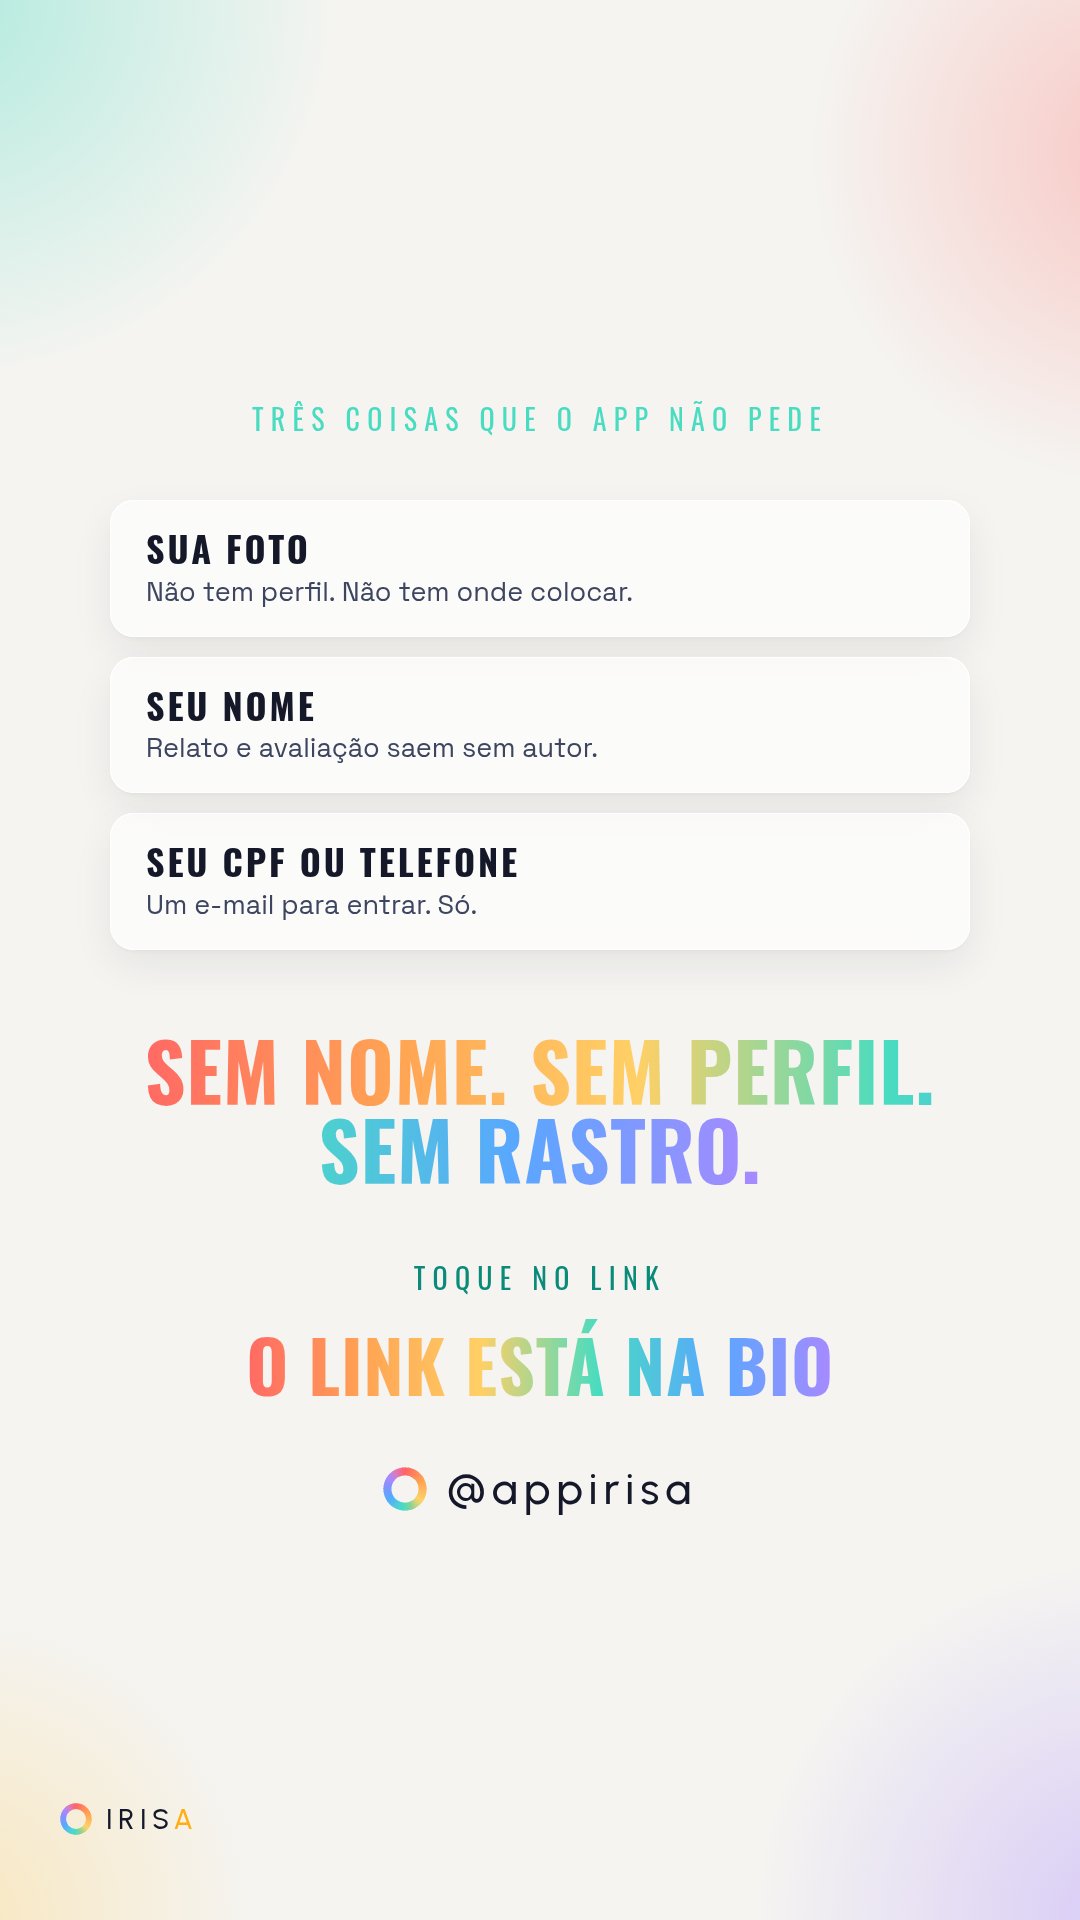
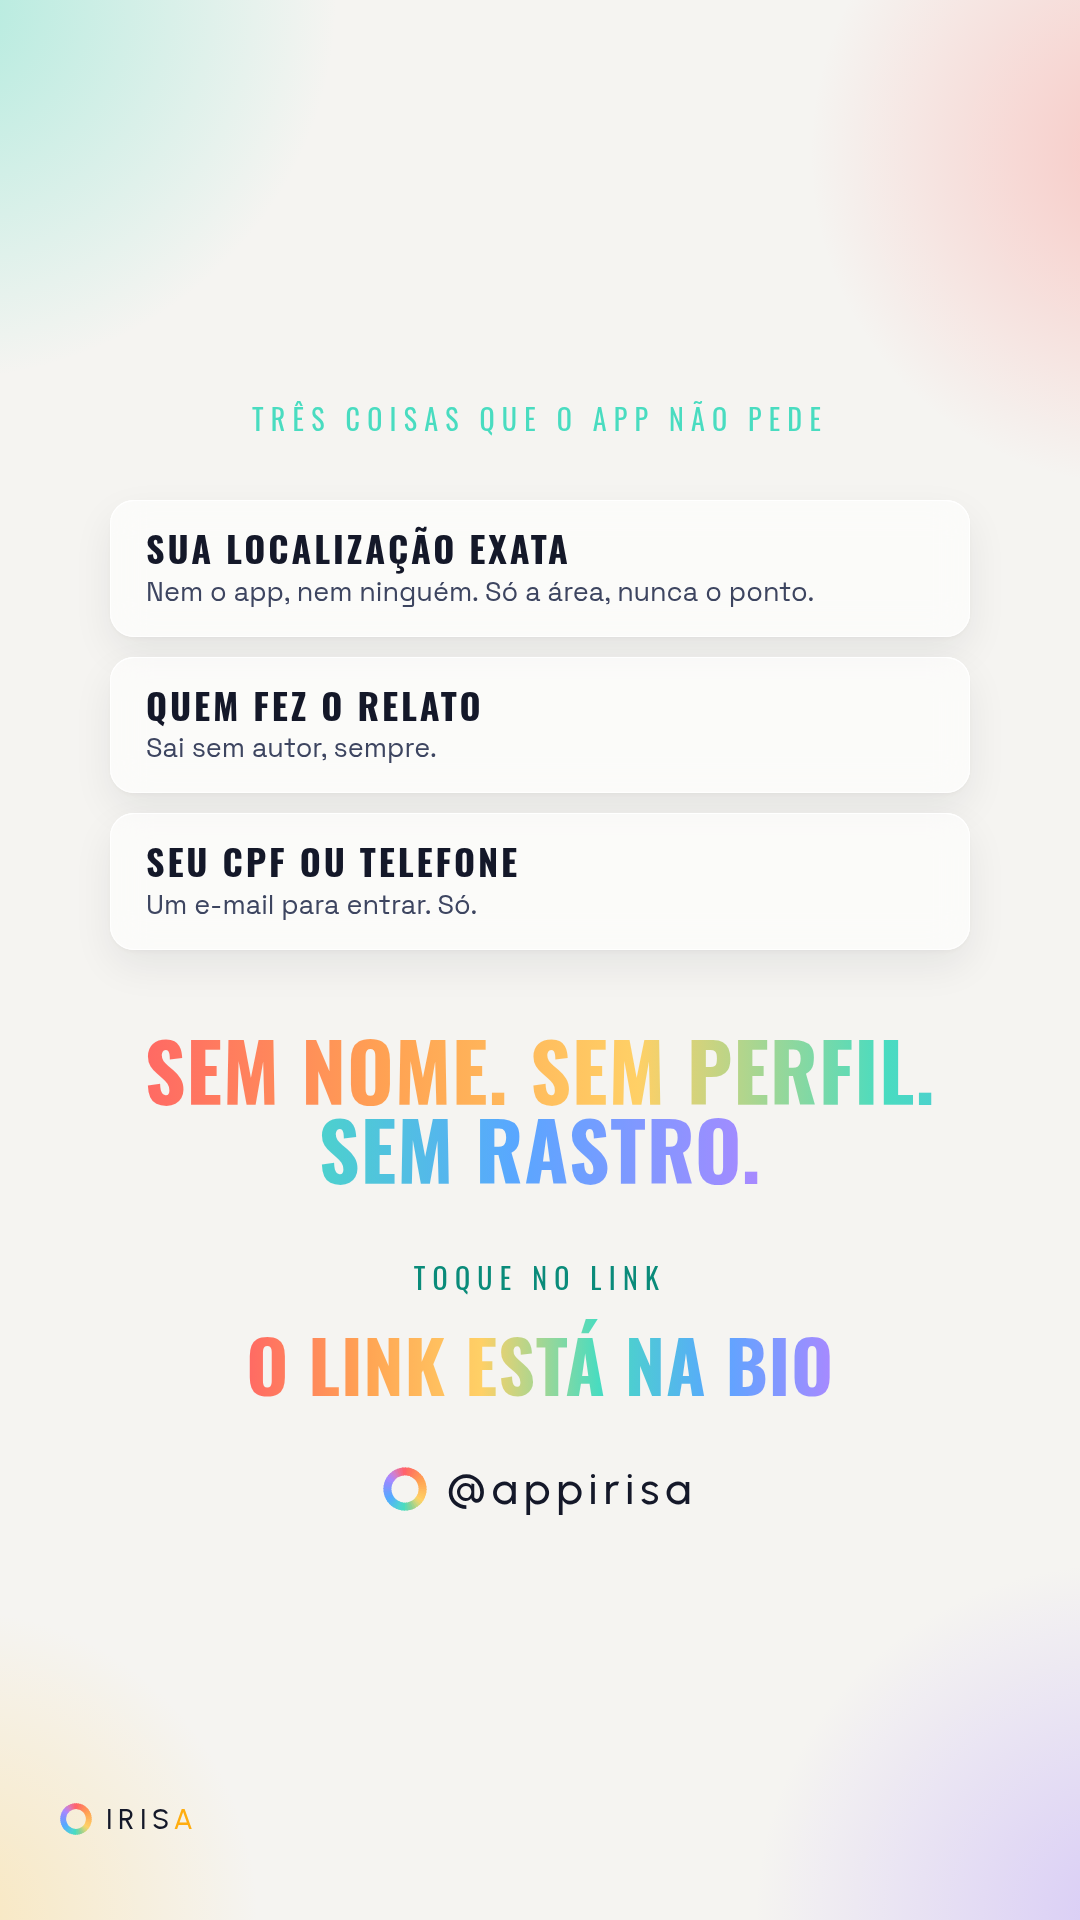
Corrige story-04: foto de perfil e autoria do relato mudaram
A lâmina dizia que o app não tem onde colocar foto e que avaliação sai
sem autor — as duas ficaram falsas com a foto de perfil e o mural com
apelido por padrão. Troca por localização exata e autoria do relato,
que continuam verdadeiras.

Claude-Session: https://claude.ai/code/session_01Mpu669XwJjmhtB6WRPNZBo

Changed region(s): [[0.1222, 0.3438, 0.4583, 0.4062], [0.1528, 0.2812, 0.5806, 0.3125], [0.4889, 0.375, 0.5194, 0.4062]]

diff --git a/docs/stories-2.html b/docs/stories-2.html
@@ -507,7 +507,7 @@ span.mark::before{content:"";position:absolute;left:50%;top:50%;width:8px;height
 </section>
 <section class="sl story" style="justify-content:center;gap:0"><div class="bg"></div><div class="brand"><svg class="mark" viewBox="0 0 100 100"><use href="#radarmin"></use></svg><span>Iris<b>a</b></span></div>
 <div class="small c" style="color:var(--turq)">três coisas que o app não pede</div>
- <div class="list" style="margin-top:60px;width:860px"><div><b>Sua foto</b><span>Não tem perfil. Não tem onde colocar.</span></div><div><b>Seu nome</b><span>Relato e avaliação saem sem autor.</span></div><div><b>Seu CPF ou telefone</b><span>Um e-mail para entrar. Só.</span></div></div>
+ <div class="list" style="margin-top:60px;width:860px"><div><b>Sua localização exata</b><span>Nem o app, nem ninguém. Só a área, nunca o ponto.</span></div><div><b>Quem fez o relato</b><span>Sai sem autor, sempre.</span></div><div><b>Seu CPF ou telefone</b><span>Um e-mail para entrar. Só.</span></div></div>
  <p class="big c" style="font-size:80px;margin:80px 60px 0"><span class="rainbow">Sem nome. Sem perfil.<br>Sem rastro.</span></p>
  <div class="small c" style="color:var(--turqInk);margin-top:70px">toque no link</div>
  <p class="big c rainbow" style="font-size:72px;margin-top:16px">O link está na bio</p>

diff --git a/docs/legendas/stories-2.md b/docs/legendas/stories-2.md
@@ -39,8 +39,13 @@ quiser puxar mais resposta pode comentar no post do dia com a mesma pergunta. **
 cortada**: cedeu o horário de domingo (eleição) pra story-05 e foi remarcada pra terça 06/10.
 
 ## 4 · `stories-2/04.png` (três coisas que o app não pede) — seg 05/10, 12h
-Título: "Três coisas que o app não pede" (foto, nome, CPF/telefone). Fecha com "Sem nome. Sem
-perfil. Sem rastro." Antes fechava com adesivo de link (dashed box "adesivo de link aqui");
-trocado pelo fecho de bio já usado no restante da campanha — "toque no link" / "O link está
-na bio" / @appirisa — que é texto fixo na própria arte, não depende de colar nada depois de
-publicar.
+Título: "Três coisas que o app não pede" (localização exata, autor do relato, CPF/telefone).
+Fecha com "Sem nome. Sem perfil. Sem rastro." Antes fechava com adesivo de link (dashed box
+"adesivo de link aqui"); trocado pelo fecho de bio já usado no restante da campanha — "toque
+no link" / "O link está na bio" / @appirisa — que é texto fixo na própria arte, não depende
+de colar nada depois de publicar.
+**Corrigido em 05/10/2026:** a lâmina original dizia "Sua foto — não tem perfil, não tem onde
+colocar" e "Seu nome — relato e avaliação saem sem autor". As duas ficaram falsas com a
+gamificação (foto de perfil existe) e o mural (apelido aparece por padrão; anônimo é opção).
+Troquei "foto" por "localização exata" (o app nunca mostra o ponto, só a área) e "seu nome"
+por "quem fez o relato" (isso continua 100% anônimo, sempre).
